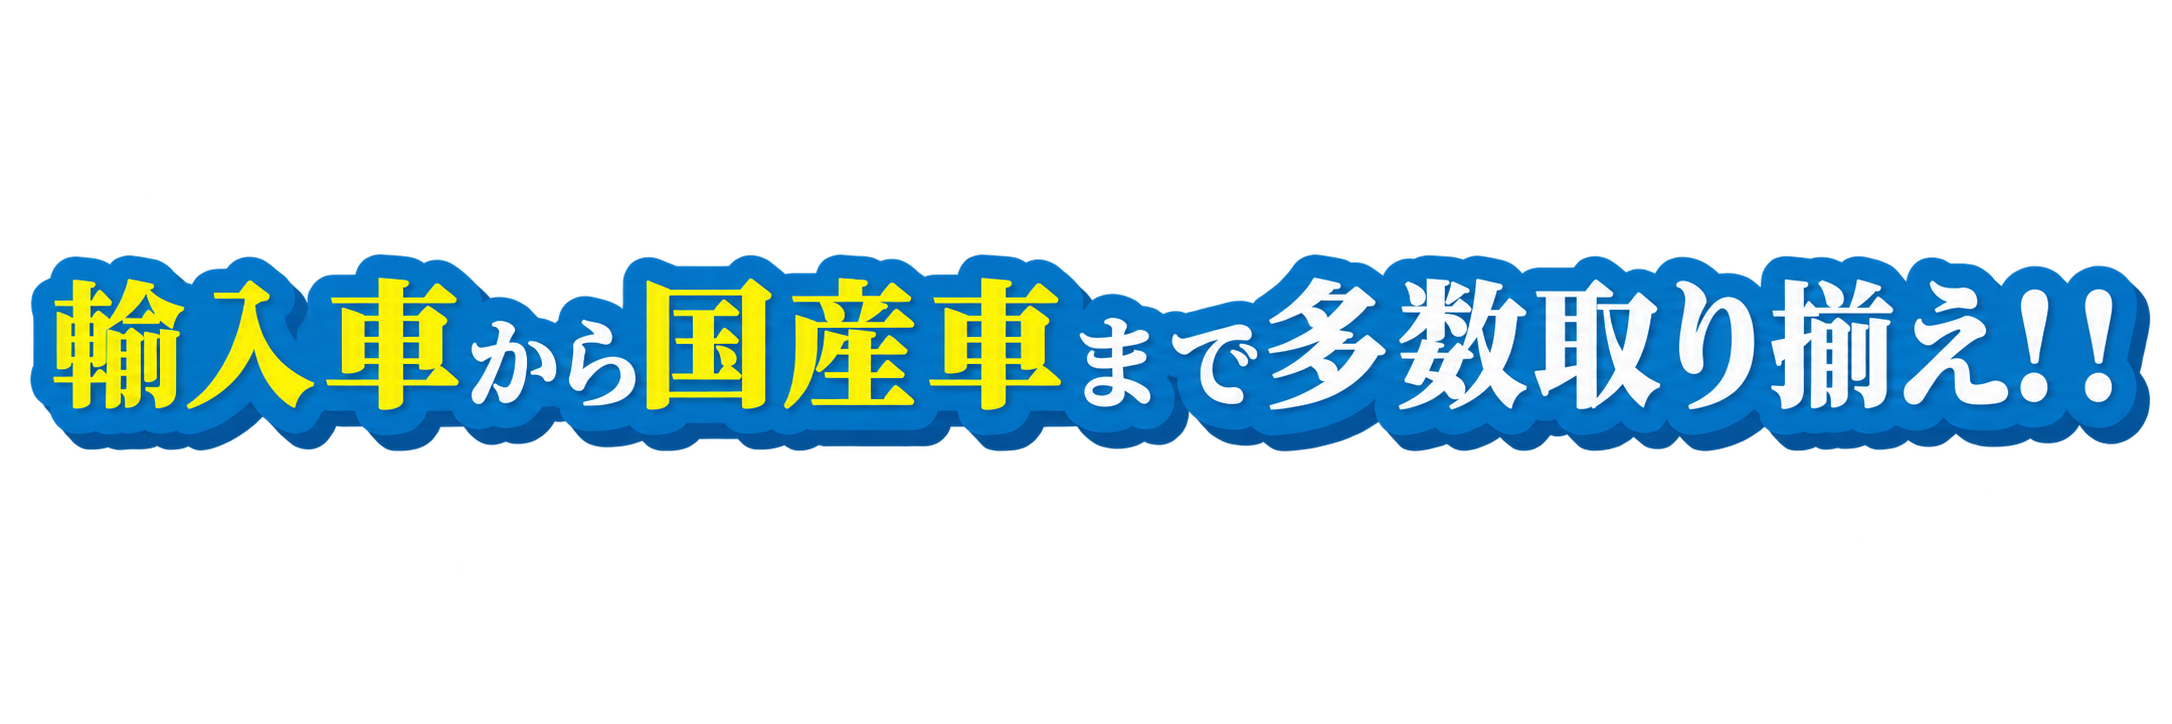
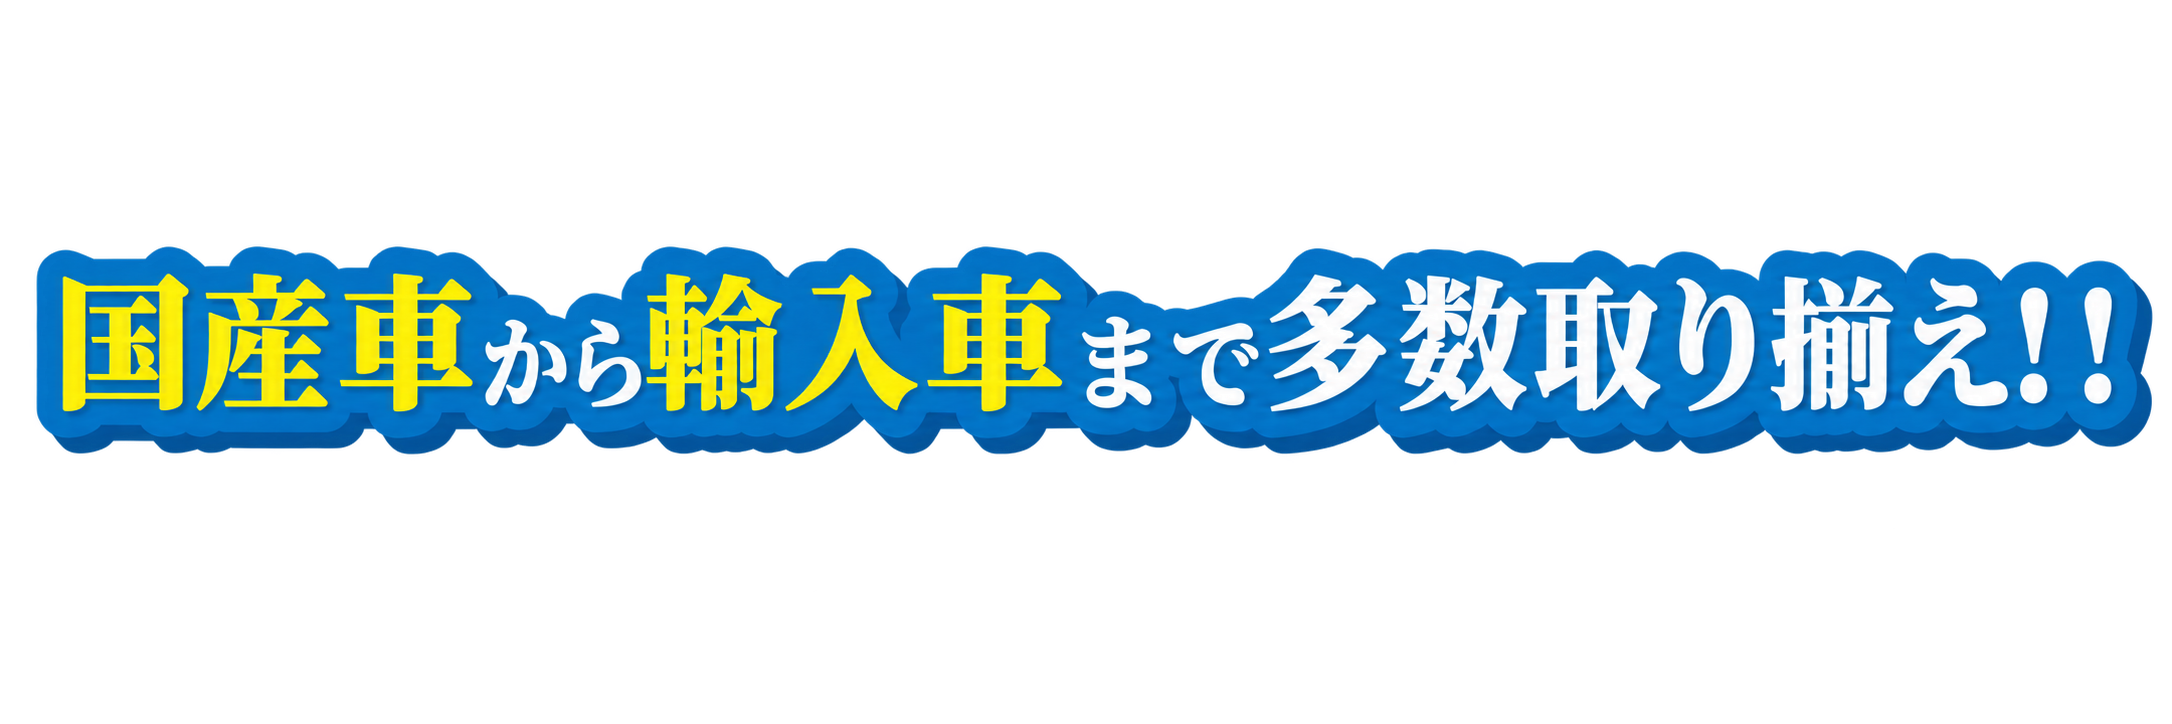
Replace stock heading with updated domestic-first artwork

diff --git a/revision-20261009/index.html b/revision-20261009/index.html
@@ -3,7 +3,7 @@
 <body><svg xmlns="http://www.w3.org/2000/svg" width="0" height="0" style="position:absolute" aria-hidden="true"><symbol id="shield" viewBox="0 0 72 72"><path d="M36 6l23 9v19c0 16-13 26-23 32C26 60 13 50 13 34V15z"/><path d="M25 35l8 8 16-18"/></symbol><symbol id="price" viewBox="0 0 72 72"><rect x="10" y="9" width="52" height="54" rx="8"/><path d="M22 48h28M22 55h14M27 20l9 10 9-10M36 30v12M26 31h20M26 37h20"/></symbol><symbol id="tools" viewBox="0 0 72 72"><path d="M45 9a17 17 0 0 0-20 21L9 47a10 10 0 0 0 14 14l17-17A17 17 0 0 0 62 24L51 35l-12-3-3-12z"/><circle cx="18" cy="53" r="3"/></symbol></svg><a class="skip" href="#main">本文へ移動</a><header><a class="brand" href="#top"><small>OKINAWA 新車正規</small>ディーラーズ中古車フェア</a><nav aria-label="メインナビゲーション"><a href="#fun">イベント</a><a href="#dealers">参加ディーラー</a><a class="pill" href="#access">会場アクセス ↗</a></nav><button class="menu-toggle" aria-haspopup="dialog" aria-expanded="false" aria-controls="fair-menu"><span aria-hidden="true">☰</span><small>MENU</small></button></header>
 <dialog id="fair-menu" aria-labelledby="menu-title"><div class="menu-head"><p id="menu-title">OKINAWA<br><strong>ディーラーズ中古車フェア</strong></p><button class="menu-close" aria-label="メニューを閉じる">×</button></div><img src="./assets/hero-flyer.jpg" alt=""><nav aria-label="フェア内メニュー"><a href="#top">トップ <span>↗</span></a><a href="#fun">イベント <span>↗</span></a><a href="#quality">認定中古車 <span>↗</span></a><a href="#dealers">参加ディーラー <span>↗</span></a><a href="#access">会場アクセス <span>↗</span></a><a href="./assets/flyer.pdf">チラシ <span>↗</span></a></nav><a class="button" href="./assets/flyer.pdf">チラシを見る（PDF） ↗</a><p>2026年11月7日（土）・8日（日）<br>10:00〜17:00</p></dialog>
 <main id="main"><section class="hero" id="top"><h1 class="sr-only">OKINAWA 新車正規ディーラーズ中古車フェア</h1><picture><source media="(max-width:800px)" srcset="./assets/flyer-hero-sp.png" width="941" height="1672"><img class="hero-image" src="./assets/hero-flyer.jpg" alt="OKINAWA 新車正規ディーラーズ中古車フェア。JAFちびっこ免許証、キッチンカー、お楽しみスタンプラリー、支払総額で購入できます。" width="1489" height="943" fetchpriority="high"></picture><div class="date-band"><p><span>2026年</span><strong>11.7<small>土</small>・8<small>日</small></strong></p><div><b>10:00〜17:00</b><br>沖縄サントリーアリーナ隣接<br><strong>コザ運動公園 立体駐車場</strong></div><a href="#access" aria-label="会場アクセス">↗</a></div></section>
-<section class="intro wrap"><div class="intro-balloons" aria-hidden="true"><i class="fair-balloon"></i><i class="fair-balloon"></i><i class="fair-balloon"></i><i class="fair-balloon"></i><i class="fair-balloon"></i><i class="fair-balloon"></i><i class="fair-balloon"></i><i class="fair-balloon"></i></div><p class="kicker stock-heading" data-text-motion="burst"><img src="./assets/stock-heading.png" width="2172" height="724" alt="輸入車から国産車まで多数取り揃え!!"></p><h2><span class="intro-line">お気に入りの<span class="one-car" data-text-motion="roll">1台</span>が</span><br><span class="intro-line">見つかる<span class="exclaim">!!</span></span></h2><div class="stock stock-art"><span class="stock-crop" data-text-motion="pop" role="img" aria-label="400台"><img src="./assets/400.png" alt="" width="1884" height="835"></span></div><div class="flyer-cars" role="button" tabindex="0" aria-label="車のイラストのアニメーションを再生"><img src="./assets/7cars.jpg" width="1874" height="552" alt="チラシに掲載された色とりどりの車のイラスト"></div><div class="shortcuts"><a href="#dealers">参加ディーラー <span>↗</span></a><a href="#fun">イベント <span>↗</span></a><a href="#access">会場アクセス <span>↗</span></a></div></section>
+<section class="intro wrap"><div class="intro-balloons" aria-hidden="true"><i class="fair-balloon"></i><i class="fair-balloon"></i><i class="fair-balloon"></i><i class="fair-balloon"></i><i class="fair-balloon"></i><i class="fair-balloon"></i><i class="fair-balloon"></i><i class="fair-balloon"></i></div><p class="kicker stock-heading" data-text-motion="burst"><img src="./assets/stock-heading.png?v=16" width="2172" height="724" alt="国産車から輸入車まで多数取り揃え!!"></p><h2><span class="intro-line">お気に入りの<span class="one-car" data-text-motion="roll">1台</span>が</span><br><span class="intro-line">見つかる<span class="exclaim">!!</span></span></h2><div class="stock stock-art"><span class="stock-crop" data-text-motion="pop" role="img" aria-label="400台"><img src="./assets/400.png" alt="" width="1884" height="835"></span></div><div class="flyer-cars" role="button" tabindex="0" aria-label="車のイラストのアニメーションを再生"><img src="./assets/7cars.jpg" width="1874" height="552" alt="チラシに掲載された色とりどりの車のイラスト"></div><div class="shortcuts"><a href="#dealers">参加ディーラー <span>↗</span></a><a href="#fun">イベント <span>↗</span></a><a href="#access">会場アクセス <span>↗</span></a></div></section>
 <section class="events section" id="fun"><div class="wrap"><p class="section-label">イベント</p><h2>様々なイベント満載!!</h2><div class="event-grid"><article><div class="event-art stamp" aria-hidden="true"><img src="./assets/stamp.png" alt=""></div><span class="event-no">01</span><h3>スタンプラリー</h3></article><article><div class="event-art food" aria-hidden="true"><img src="./assets/kitchen.png" alt=""></div><span class="event-no">02</span><h3>キッチンカー！</h3><p>沖縄市料理飲食業組合</p></article><article><div class="event-art jaf" aria-hidden="true"><img src="./assets/jaf.png" alt=""></div><span class="event-no">03</span><h3>JAF<br>ちびっこ免許証</h3></article></div>
 		<!--<div class="benefit"><span data-text-motion="bounce">ご成約特典あり！</span></div>--></div></section>
 <section class="section wrap" id="quality"><p class="section-label">認定中古車</p><h2>新車正規ディーラーの安心と信頼感!!</h2><div class="trust-grid"><article><span class="trust-number">01</span><svg class="trust-icon" aria-hidden="true"><use href="#shield"/></svg><h3>安心・安全・信頼の<br>認定中古車</h3><p>品質保証と信頼性!!</p></article><article><span class="trust-number">02</span><svg class="trust-icon" aria-hidden="true"><use href="#price"/></svg><h3>総額表示だから安心</h3><p>車両価格は全て総額表示!!</p></article><article><span class="trust-number">03</span><svg class="trust-icon" aria-hidden="true"><use href="#tools"/></svg><h3>購入後の<br>メンテナンスも安心！</h3><p>充実したアフターサービス!!</p></article></div></section>
